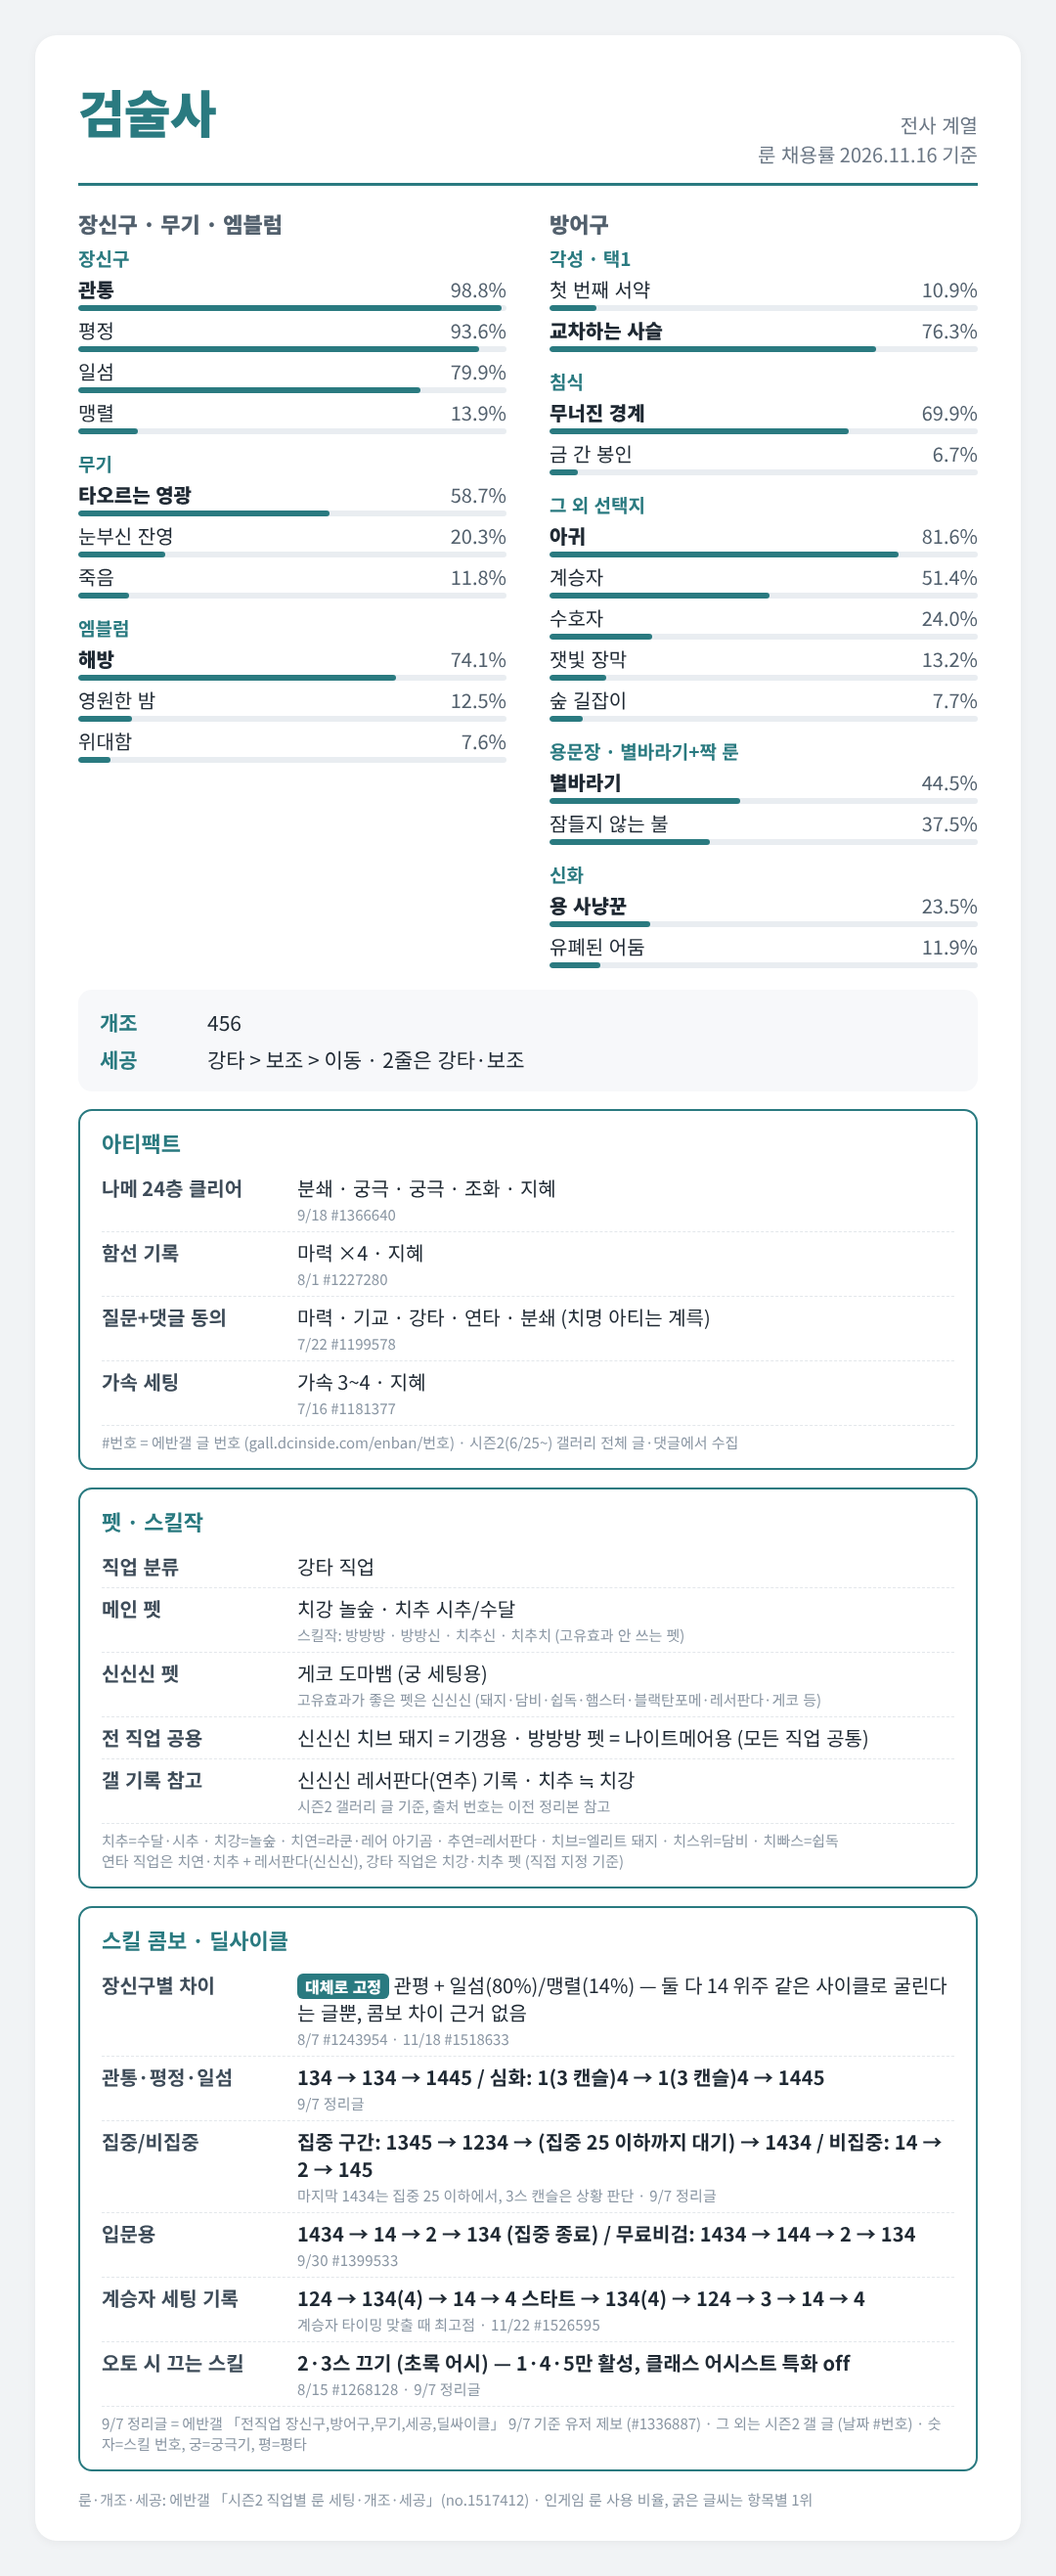
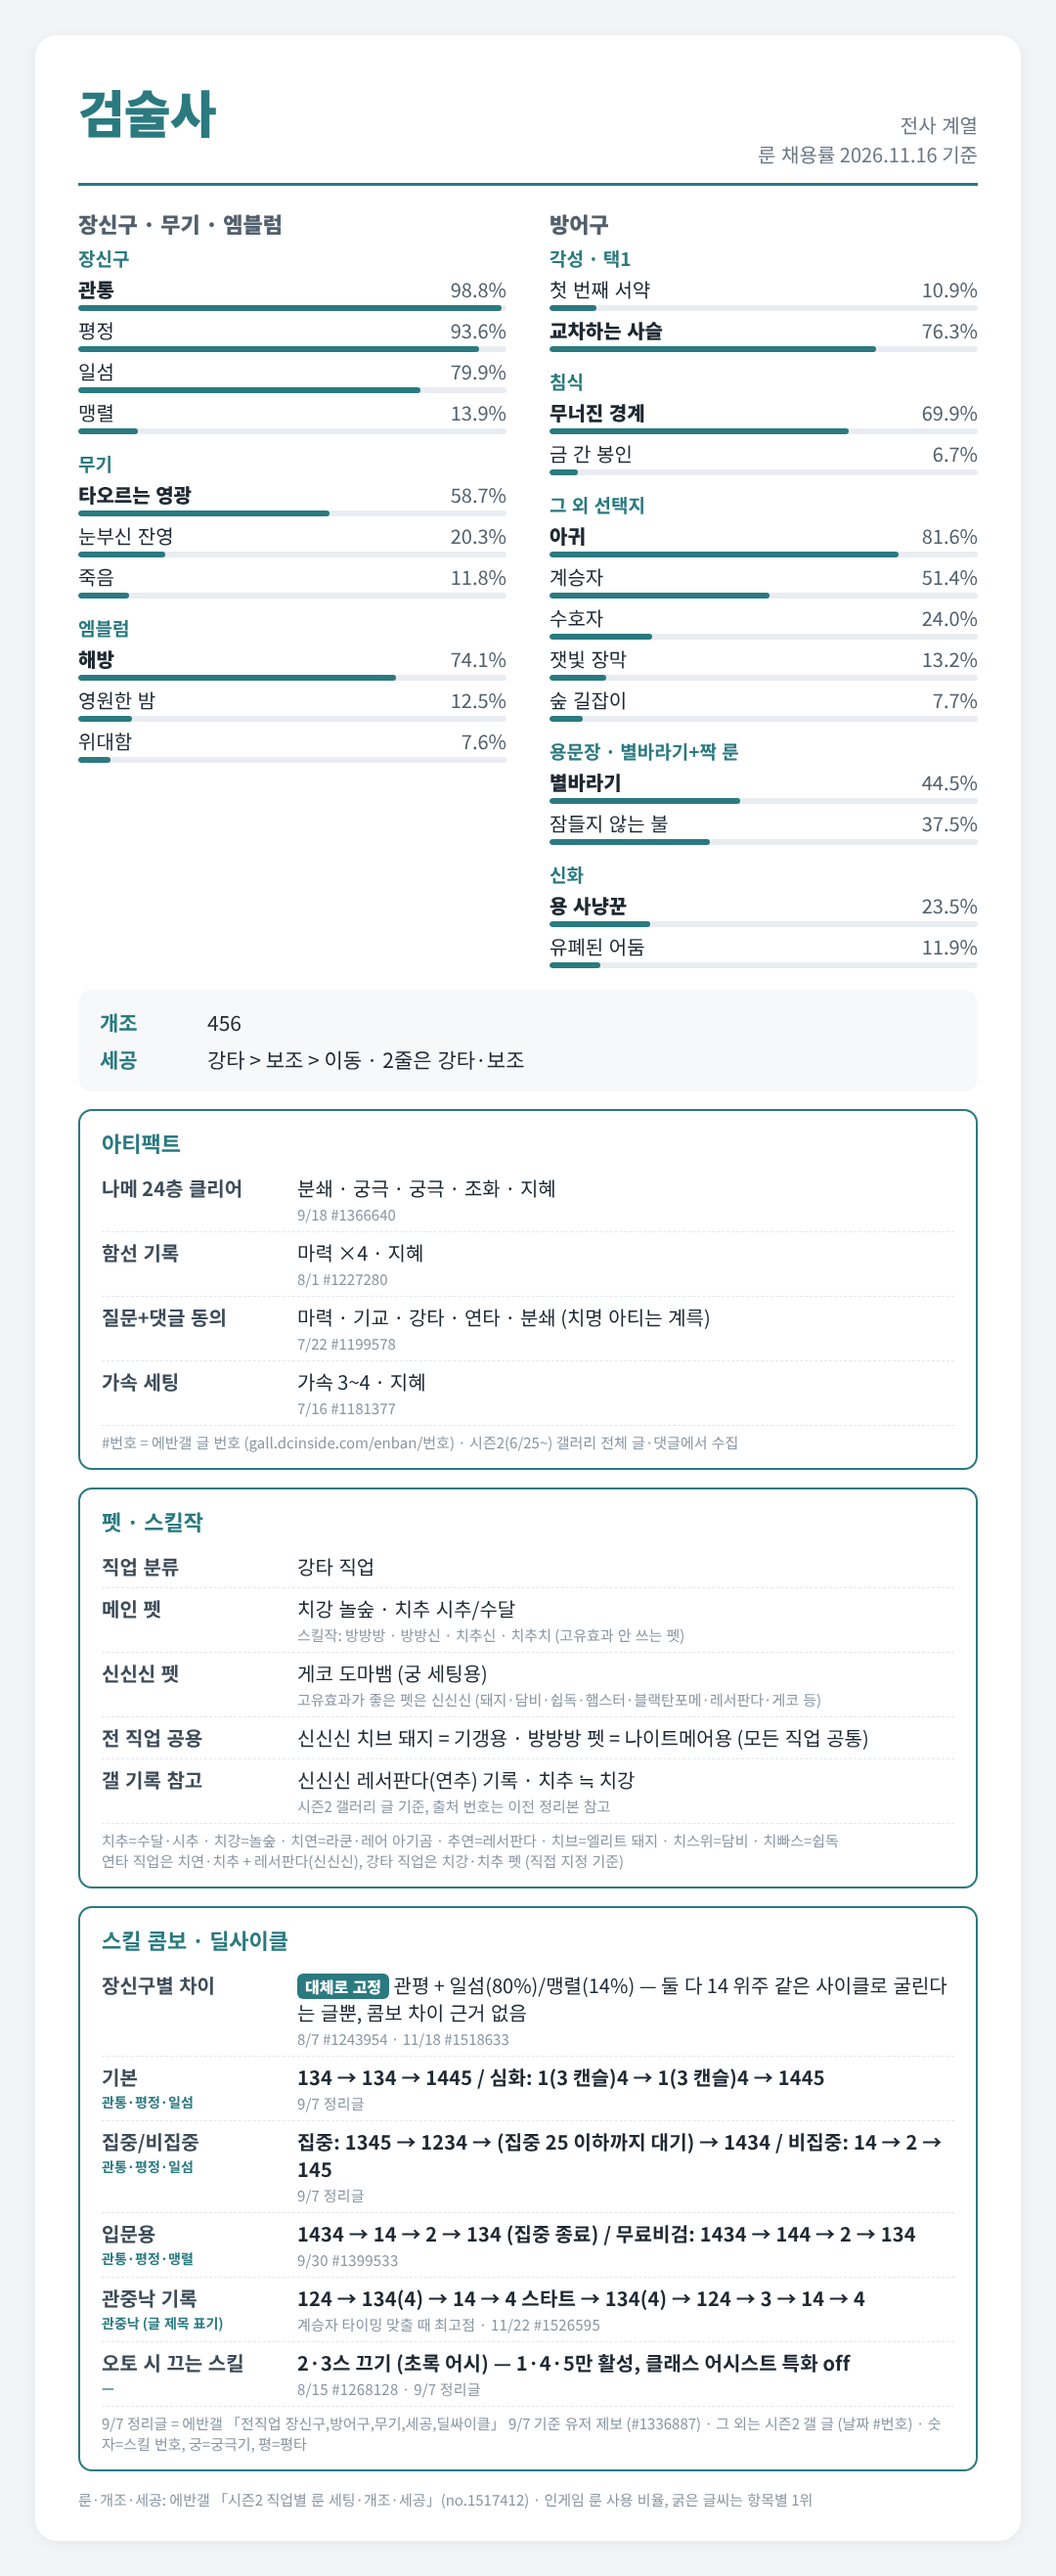
직업별 세팅 카드 교체 (v1123b) + 카드 버전 파일
Claude-Session: https://claude.ai/code/session_01LM8UucPVM58m71Cyhb2qQr

diff --git a/c/21_dualblade.html b/c/21_dualblade.html
@@ -5,9 +5,9 @@
 <meta property="og:type" content="website">
 <meta property="og:title" content="듀얼블레이드 세팅 카드">
 <meta property="og:description" content="마비노기 모바일 듀얼블레이드 장신구·방어구·무기·세공 세팅">
-<meta property="og:image" content="https://sundae-vanilla.github.io/-/21_dualblade.png?v=20261123">
+<meta property="og:image" content="https://sundae-vanilla.github.io/-/21_dualblade.png?v=1123b">
 <meta property="og:image:width" content="1080">
-<meta property="og:image:height" content="2182">
+<meta property="og:image:height" content="2144">
 <meta property="og:url" content="https://sundae-vanilla.github.io/-/c/21_dualblade.html">
 <style>html,body{margin:0;background:#fff}body{min-height:100vh;display:flex;align-items:center;justify-content:center}img{display:block;width:100%;max-width:1080px;height:auto}</style>
-</head><body><img src="../21_dualblade.png?v=20261123" alt="듀얼블레이드 세팅 카드"></body></html>
+</head><body><img src="../21_dualblade.png?v=1123b" alt="듀얼블레이드 세팅 카드"></body></html>

diff --git a/c/02_greatsword.html b/c/02_greatsword.html
@@ -5,9 +5,9 @@
 <meta property="og:type" content="website">
 <meta property="og:title" content="대검전사 세팅 카드">
 <meta property="og:description" content="마비노기 모바일 대검전사 장신구·방어구·무기·세공 세팅">
-<meta property="og:image" content="https://sundae-vanilla.github.io/-/02_greatsword.png?v=20261123">
+<meta property="og:image" content="https://sundae-vanilla.github.io/-/02_greatsword.png?v=1123b">
 <meta property="og:image:width" content="1080">
-<meta property="og:image:height" content="2757">
+<meta property="og:image:height" content="2497">
 <meta property="og:url" content="https://sundae-vanilla.github.io/-/c/02_greatsword.html">
 <style>html,body{margin:0;background:#fff}body{min-height:100vh;display:flex;align-items:center;justify-content:center}img{display:block;width:100%;max-width:1080px;height:auto}</style>
-</head><body><img src="../02_greatsword.png?v=20261123" alt="대검전사 세팅 카드"></body></html>
+</head><body><img src="../02_greatsword.png?v=1123b" alt="대검전사 세팅 카드"></body></html>

diff --git a/c/11_lightning.html b/c/11_lightning.html
@@ -5,9 +5,9 @@
 <meta property="og:type" content="website">
 <meta property="og:title" content="전격술사 세팅 카드">
 <meta property="og:description" content="마비노기 모바일 전격술사 장신구·방어구·무기·세공 세팅">
-<meta property="og:image" content="https://sundae-vanilla.github.io/-/11_lightning.png?v=20261123">
+<meta property="og:image" content="https://sundae-vanilla.github.io/-/11_lightning.png?v=1123b">
 <meta property="og:image:width" content="1080">
-<meta property="og:image:height" content="2244">
+<meta property="og:image:height" content="2199">
 <meta property="og:url" content="https://sundae-vanilla.github.io/-/c/11_lightning.html">
 <style>html,body{margin:0;background:#fff}body{min-height:100vh;display:flex;align-items:center;justify-content:center}img{display:block;width:100%;max-width:1080px;height:auto}</style>
-</head><body><img src="../11_lightning.png?v=20261123" alt="전격술사 세팅 카드"></body></html>
+</head><body><img src="../11_lightning.png?v=1123b" alt="전격술사 세팅 카드"></body></html>

diff --git a/c/06_crossbow.html b/c/06_crossbow.html
@@ -5,9 +5,9 @@
 <meta property="og:type" content="website">
 <meta property="og:title" content="석궁사수 세팅 카드">
 <meta property="og:description" content="마비노기 모바일 석궁사수 장신구·방어구·무기·세공 세팅">
-<meta property="og:image" content="https://sundae-vanilla.github.io/-/06_crossbow.png?v=20261123">
+<meta property="og:image" content="https://sundae-vanilla.github.io/-/06_crossbow.png?v=1123b">
 <meta property="og:image:width" content="1080">
-<meta property="og:image:height" content="2424">
+<meta property="og:image:height" content="2401">
 <meta property="og:url" content="https://sundae-vanilla.github.io/-/c/06_crossbow.html">
 <style>html,body{margin:0;background:#fff}body{min-height:100vh;display:flex;align-items:center;justify-content:center}img{display:block;width:100%;max-width:1080px;height:auto}</style>
-</head><body><img src="../06_crossbow.png?v=20261123" alt="석궁사수 세팅 카드"></body></html>
+</head><body><img src="../06_crossbow.png?v=1123b" alt="석궁사수 세팅 카드"></body></html>

diff --git a/c/15_darkmage.html b/c/15_darkmage.html
@@ -5,9 +5,9 @@
 <meta property="og:type" content="website">
 <meta property="og:title" content="암흑술사 세팅 카드">
 <meta property="og:description" content="마비노기 모바일 암흑술사 장신구·방어구·무기·세공 세팅">
-<meta property="og:image" content="https://sundae-vanilla.github.io/-/15_darkmage.png?v=20261123">
+<meta property="og:image" content="https://sundae-vanilla.github.io/-/15_darkmage.png?v=1123b">
 <meta property="og:image:width" content="1080">
-<meta property="og:image:height" content="2407">
+<meta property="og:image:height" content="2394">
 <meta property="og:url" content="https://sundae-vanilla.github.io/-/c/15_darkmage.html">
 <style>html,body{margin:0;background:#fff}body{min-height:100vh;display:flex;align-items:center;justify-content:center}img{display:block;width:100%;max-width:1080px;height:auto}</style>
-</head><body><img src="../15_darkmage.png?v=20261123" alt="암흑술사 세팅 카드"></body></html>
+</head><body><img src="../15_darkmage.png?v=1123b" alt="암흑술사 세팅 카드"></body></html>

diff --git a/c/07_longbow.html b/c/07_longbow.html
@@ -5,9 +5,9 @@
 <meta property="og:type" content="website">
 <meta property="og:title" content="장궁병 세팅 카드">
 <meta property="og:description" content="마비노기 모바일 장궁병 장신구·방어구·무기·세공 세팅">
-<meta property="og:image" content="https://sundae-vanilla.github.io/-/07_longbow.png?v=20261123">
+<meta property="og:image" content="https://sundae-vanilla.github.io/-/07_longbow.png?v=1123b">
 <meta property="og:image:width" content="1080">
-<meta property="og:image:height" content="2188">
+<meta property="og:image:height" content="2084">
 <meta property="og:url" content="https://sundae-vanilla.github.io/-/c/07_longbow.html">
 <style>html,body{margin:0;background:#fff}body{min-height:100vh;display:flex;align-items:center;justify-content:center}img{display:block;width:100%;max-width:1080px;height:auto}</style>
-</head><body><img src="../07_longbow.png?v=20261123" alt="장궁병 세팅 카드"></body></html>
+</head><body><img src="../07_longbow.png?v=1123b" alt="장궁병 세팅 카드"></body></html>

diff --git a/c/20_fighter.html b/c/20_fighter.html
@@ -5,9 +5,9 @@
 <meta property="og:type" content="website">
 <meta property="og:title" content="격투가 세팅 카드">
 <meta property="og:description" content="마비노기 모바일 격투가 장신구·방어구·무기·세공 세팅">
-<meta property="og:image" content="https://sundae-vanilla.github.io/-/20_fighter.png?v=20261123">
+<meta property="og:image" content="https://sundae-vanilla.github.io/-/20_fighter.png?v=1123b">
 <meta property="og:image:width" content="1080">
-<meta property="og:image:height" content="2776">
+<meta property="og:image:height" content="2554">
 <meta property="og:url" content="https://sundae-vanilla.github.io/-/c/20_fighter.html">
 <style>html,body{margin:0;background:#fff}body{min-height:100vh;display:flex;align-items:center;justify-content:center}img{display:block;width:100%;max-width:1080px;height:auto}</style>
-</head><body><img src="../20_fighter.png?v=20261123" alt="격투가 세팅 카드"></body></html>
+</head><body><img src="../20_fighter.png?v=1123b" alt="격투가 세팅 카드"></body></html>

diff --git a/c/09_fire.html b/c/09_fire.html
@@ -5,9 +5,9 @@
 <meta property="og:type" content="website">
 <meta property="og:title" content="화염술사 세팅 카드">
 <meta property="og:description" content="마비노기 모바일 화염술사 장신구·방어구·무기·세공 세팅">
-<meta property="og:image" content="https://sundae-vanilla.github.io/-/09_fire.png?v=20261123">
+<meta property="og:image" content="https://sundae-vanilla.github.io/-/09_fire.png?v=1123b">
 <meta property="og:image:width" content="1080">
-<meta property="og:image:height" content="2408">
+<meta property="og:image:height" content="2370">
 <meta property="og:url" content="https://sundae-vanilla.github.io/-/c/09_fire.html">
 <style>html,body{margin:0;background:#fff}body{min-height:100vh;display:flex;align-items:center;justify-content:center}img{display:block;width:100%;max-width:1080px;height:auto}</style>
-</head><body><img src="../09_fire.png?v=20261123" alt="화염술사 세팅 카드"></body></html>
+</head><body><img src="../09_fire.png?v=1123b" alt="화염술사 세팅 카드"></body></html>

diff --git a/c/16_bard.html b/c/16_bard.html
@@ -5,9 +5,9 @@
 <meta property="og:type" content="website">
 <meta property="og:title" content="음유시인 세팅 카드">
 <meta property="og:description" content="마비노기 모바일 음유시인 장신구·방어구·무기·세공 세팅">
-<meta property="og:image" content="https://sundae-vanilla.github.io/-/16_bard.png?v=20261123">
+<meta property="og:image" content="https://sundae-vanilla.github.io/-/16_bard.png?v=1123b">
 <meta property="og:image:width" content="1080">
-<meta property="og:image:height" content="2282">
+<meta property="og:image:height" content="2267">
 <meta property="og:url" content="https://sundae-vanilla.github.io/-/c/16_bard.html">
 <style>html,body{margin:0;background:#fff}body{min-height:100vh;display:flex;align-items:center;justify-content:center}img{display:block;width:100%;max-width:1080px;height:auto}</style>
-</head><body><img src="../16_bard.png?v=20261123" alt="음유시인 세팅 카드"></body></html>
+</head><body><img src="../16_bard.png?v=1123b" alt="음유시인 세팅 카드"></body></html>

diff --git a/c/18_musician.html b/c/18_musician.html
@@ -5,9 +5,9 @@
 <meta property="og:type" content="website">
 <meta property="og:title" content="악사 세팅 카드">
 <meta property="og:description" content="마비노기 모바일 악사 장신구·방어구·무기·세공 세팅">
-<meta property="og:image" content="https://sundae-vanilla.github.io/-/18_musician.png?v=20261123">
+<meta property="og:image" content="https://sundae-vanilla.github.io/-/18_musician.png?v=1123b">
 <meta property="og:image:width" content="1080">
-<meta property="og:image:height" content="2251">
+<meta property="og:image:height" content="2328">
 <meta property="og:url" content="https://sundae-vanilla.github.io/-/c/18_musician.html">
 <style>html,body{margin:0;background:#fff}body{min-height:100vh;display:flex;align-items:center;justify-content:center}img{display:block;width:100%;max-width:1080px;height:auto}</style>
-</head><body><img src="../18_musician.png?v=20261123" alt="악사 세팅 카드"></body></html>
+</head><body><img src="../18_musician.png?v=1123b" alt="악사 세팅 카드"></body></html>

diff --git a/c/01_warrior.html b/c/01_warrior.html
@@ -5,9 +5,9 @@
 <meta property="og:type" content="website">
 <meta property="og:title" content="전사 세팅 카드">
 <meta property="og:description" content="마비노기 모바일 전사 장신구·방어구·무기·세공 세팅">
-<meta property="og:image" content="https://sundae-vanilla.github.io/-/01_warrior.png?v=20261123">
+<meta property="og:image" content="https://sundae-vanilla.github.io/-/01_warrior.png?v=1123b">
 <meta property="og:image:width" content="1080">
-<meta property="og:image:height" content="2358">
+<meta property="og:image:height" content="2320">
 <meta property="og:url" content="https://sundae-vanilla.github.io/-/c/01_warrior.html">
 <style>html,body{margin:0;background:#fff}body{min-height:100vh;display:flex;align-items:center;justify-content:center}img{display:block;width:100%;max-width:1080px;height:auto}</style>
-</head><body><img src="../01_warrior.png?v=20261123" alt="전사 세팅 카드"></body></html>
+</head><body><img src="../01_warrior.png?v=1123b" alt="전사 세팅 카드"></body></html>

diff --git a/c/08_mage.html b/c/08_mage.html
@@ -5,9 +5,9 @@
 <meta property="og:type" content="website">
 <meta property="og:title" content="마법사 세팅 카드">
 <meta property="og:description" content="마비노기 모바일 마법사 장신구·방어구·무기·세공 세팅">
-<meta property="og:image" content="https://sundae-vanilla.github.io/-/08_mage.png?v=20261123">
+<meta property="og:image" content="https://sundae-vanilla.github.io/-/08_mage.png?v=1123b">
 <meta property="og:image:width" content="1080">
-<meta property="og:image:height" content="2396">
+<meta property="og:image:height" content="2373">
 <meta property="og:url" content="https://sundae-vanilla.github.io/-/c/08_mage.html">
 <style>html,body{margin:0;background:#fff}body{min-height:100vh;display:flex;align-items:center;justify-content:center}img{display:block;width:100%;max-width:1080px;height:auto}</style>
-</head><body><img src="../08_mage.png?v=20261123" alt="마법사 세팅 카드"></body></html>
+</head><body><img src="../08_mage.png?v=1123b" alt="마법사 세팅 카드"></body></html>
